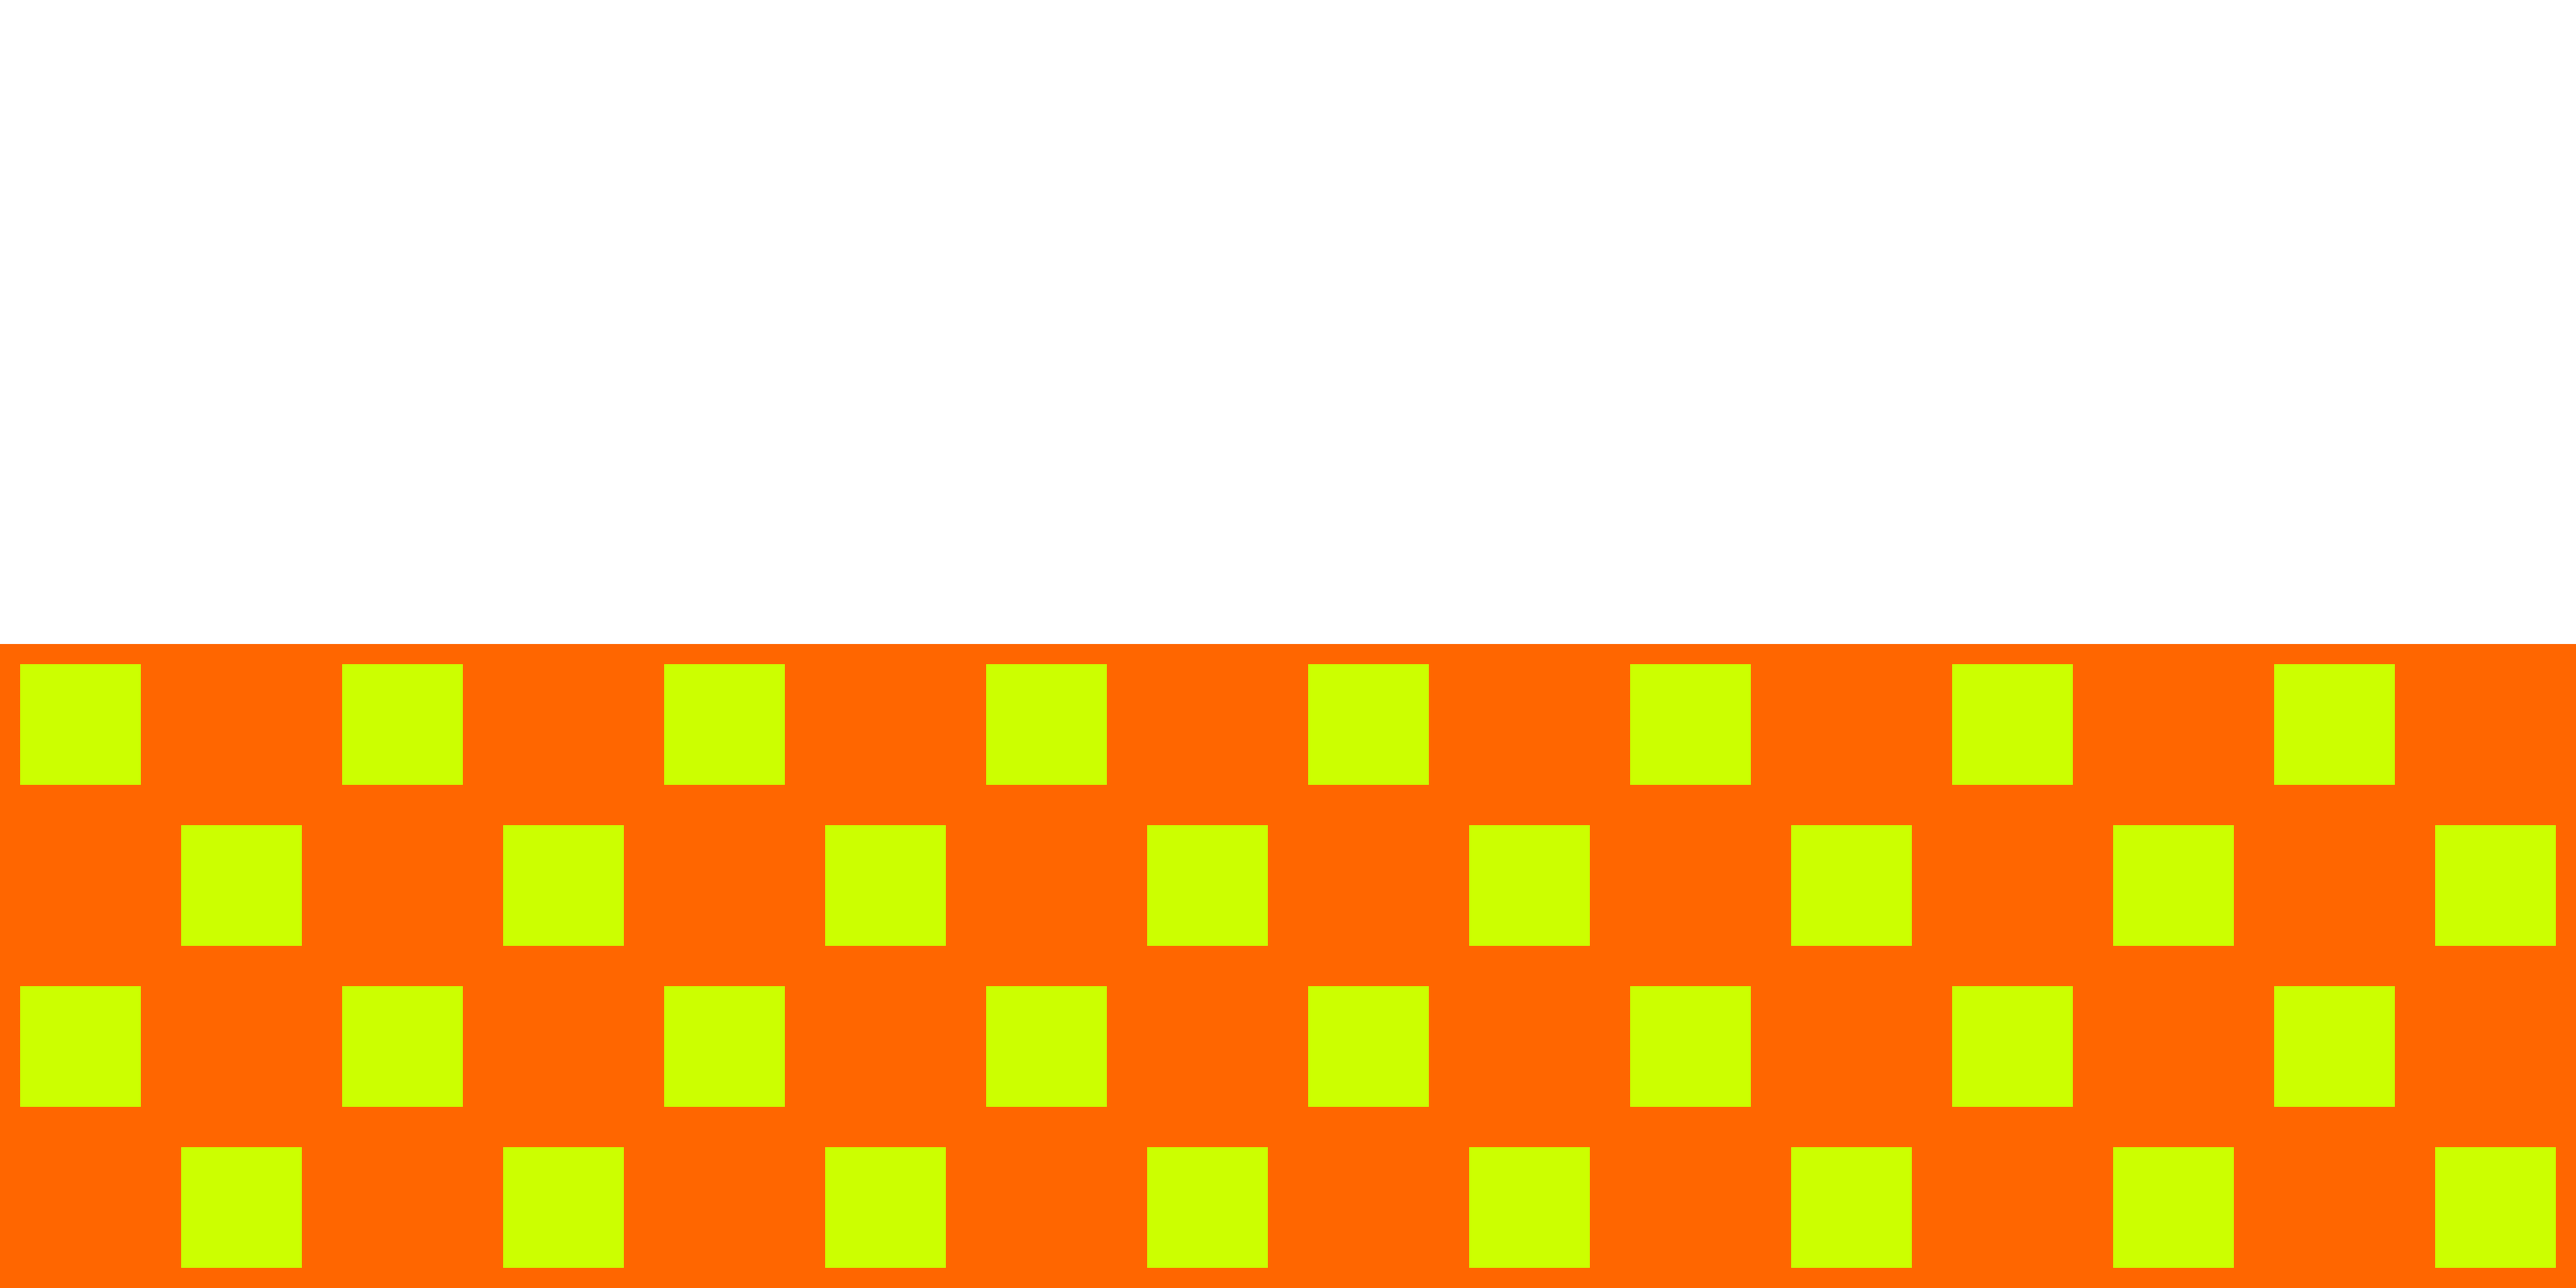
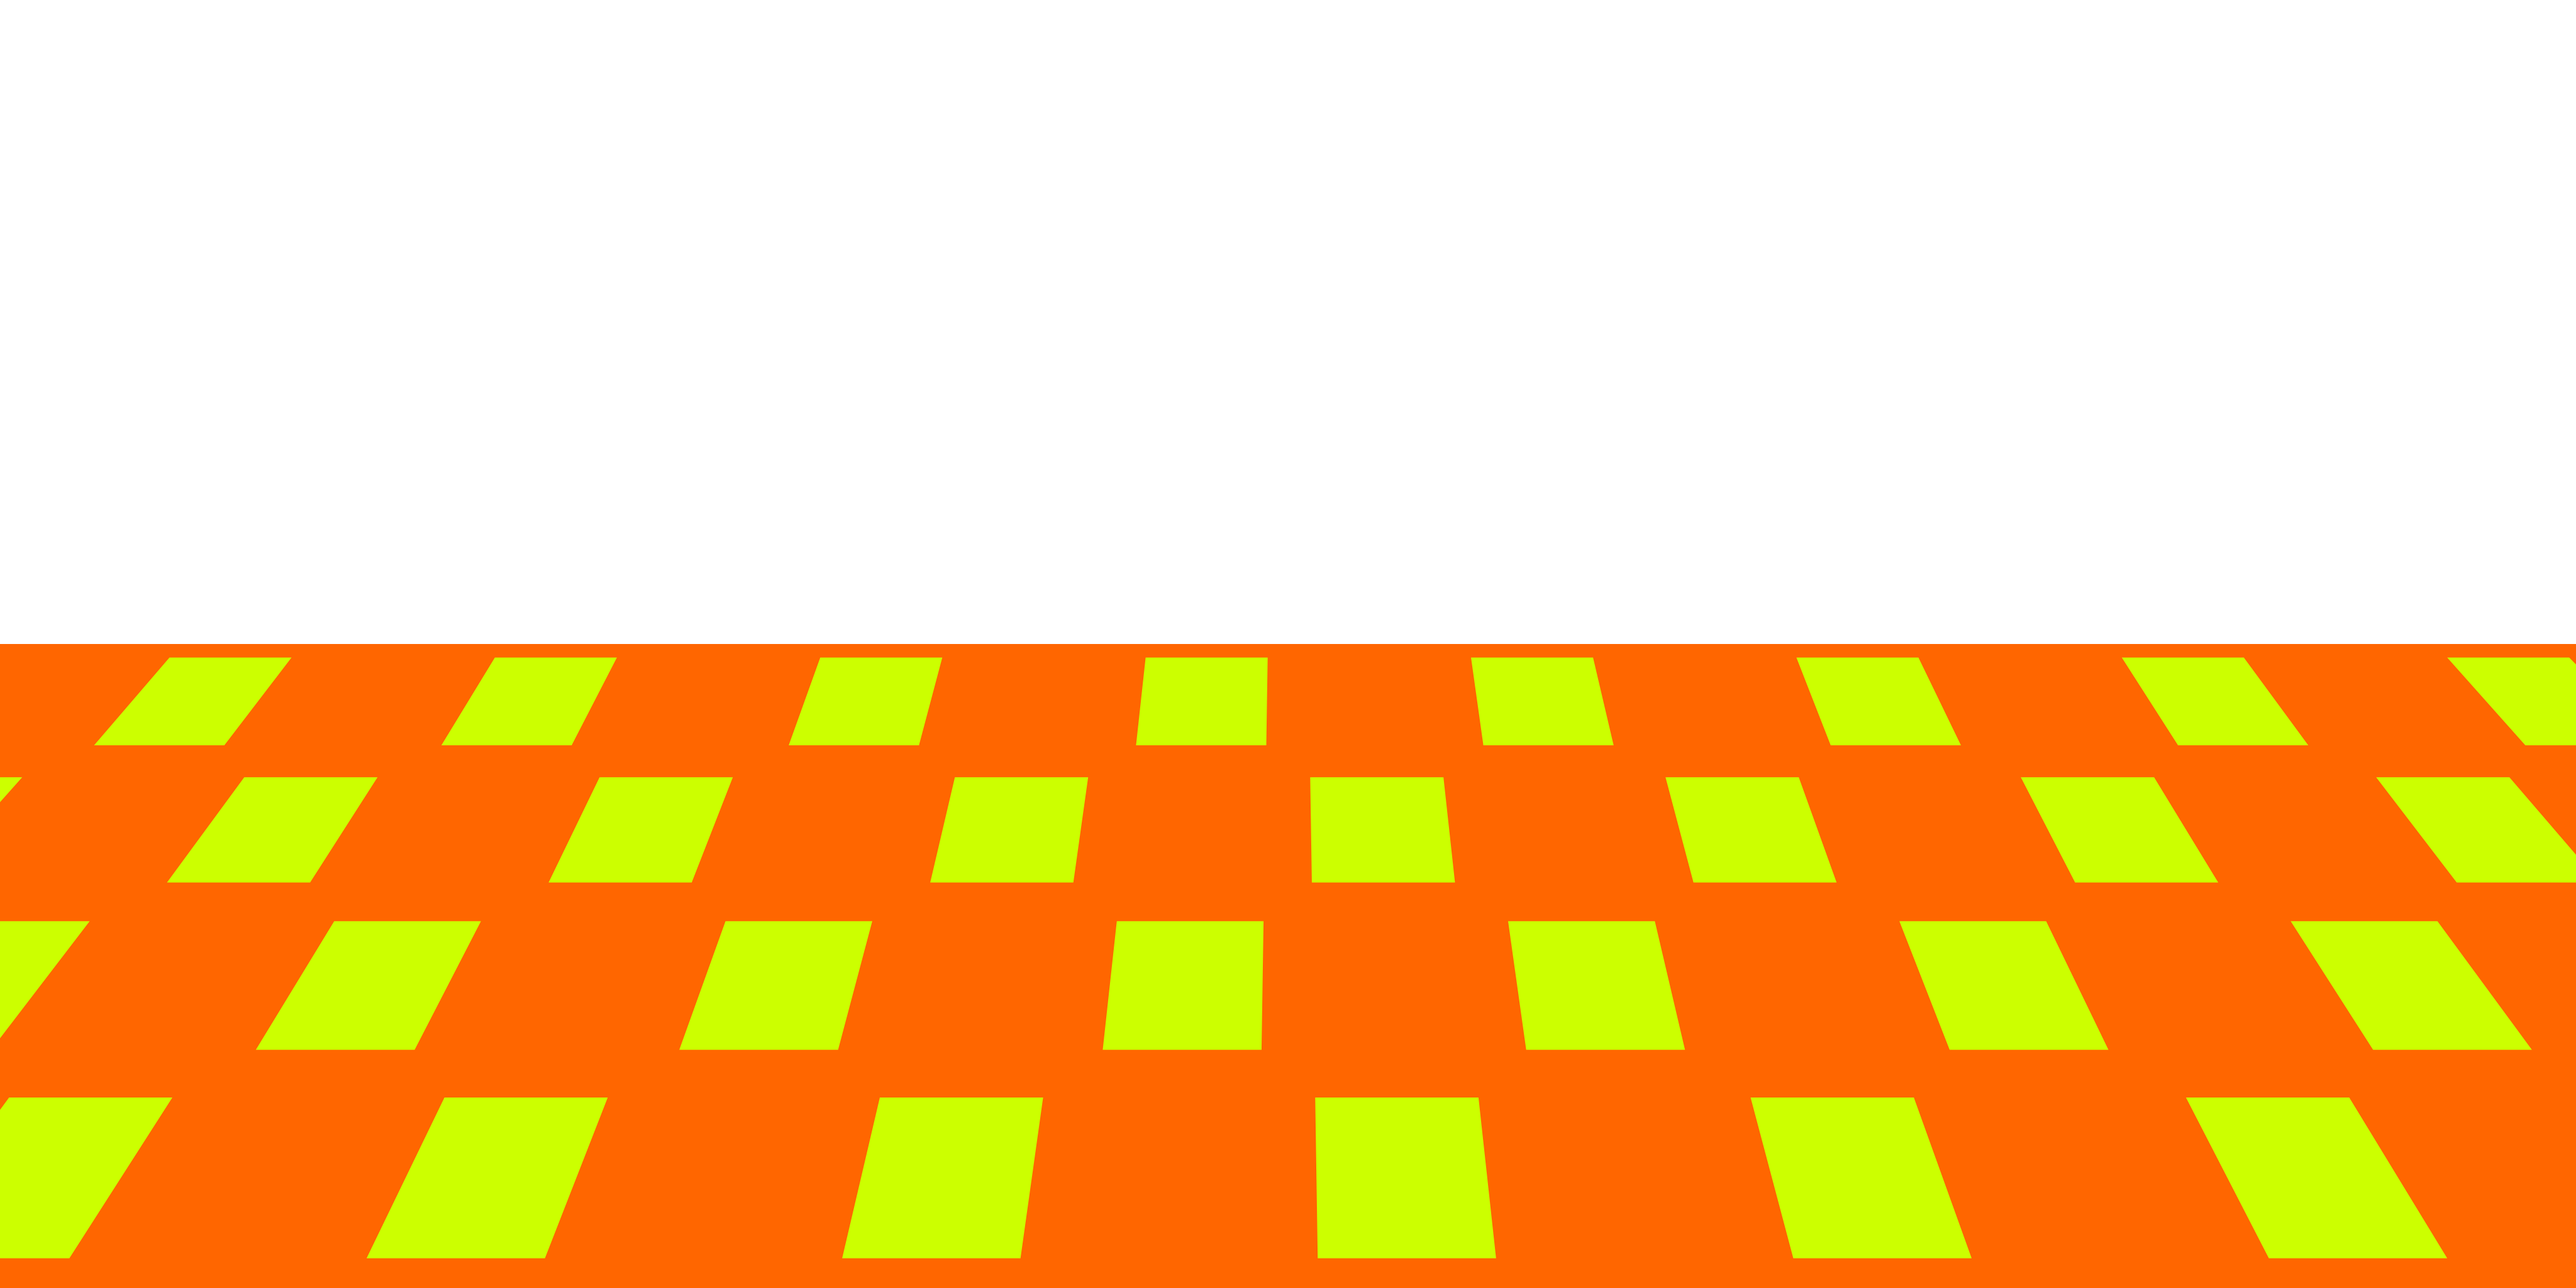
[skip ci] grochicken
here we go

Week is ready. further test needed. lacks our mod weeks pls add

Komsel change mural a bit! avoid 69! This is sacred room

Render Test

Changed region(s): [[0.0, 0.5, 1.0, 1.0]]

diff --git a/CREDIT.md b/CREDIT.md
@@ -411,12 +411,14 @@ Hey, am I allowed to relicense? I was meant to just license part of my mods that
 - the KPOP TV show has lyric!
 - https://haxeflixel.com/blog/16-HaxeFlixel-5-4-0/ COMBINE THE ATLAS!!!!!!!
 - https://github.com/HaxeFoundation/hscript pls latest instead
-
-
+- https://roy-torley.github.io/Inkscape_Tutorial/Tutorial07/Tutorial07.html
+- https://graphicdesign.stackexchange.com/questions/36025/how-do-i-shear-a-selection-in-inkscape
 
 # in event of git merge conflict
+
 use VScode and Github desktop!
 ## New
+
 - cease all works
 - commit and push new commit to your GitHub now.
 - go to conflict solving branch. pull the last commit from main to here.
@@ -434,6 +436,7 @@ use VScode and Github desktop!
 - push while you're at `main` now!
 
 ## legacyed
+
 - make sure to backup your last mod commit into a new branch first.
 - pull your latest commit from main to the conflict solving branch
 - try to checkout the new topic branch that conflict with the default branch where you supposed to merge all topic into default. 
@@ -444,6 +447,7 @@ use VScode and Github desktop!
 - after all conflict resolved you can commit merge. yay
 
 ## involved helps
+
 - https://stackoverflow.com/questions/6006737/git-merge-errors/6006775
 - https://stackoverflow.com/questions/57044187/git-error-you-need-to-resolve-your-current-index-first#57044188
 - https://stackoverflow.com/questions/36086202/git-merge-is-not-possible-because-i-have-unmerged-files
@@ -451,6 +455,7 @@ use VScode and Github desktop!
 - https://stackoverflow.com/questions/36086202/git-merge-is-not-possible-because-i-have-unmerged-files
 
 # Musics involved
+
 - https://linktr.ee/TheFatRat TheFatRat songs
 - https://gamebanana.com/mods/43569 SeaNothing's MIDI remake of FNF songs
 - https://youtu.be/RWf50T52n58 AFI Junior - Guruku Tersayang
@@ -619,6 +624,7 @@ Free Download / Stream: http://ncs.io/CradlesYO
 - https://lib.haxe.org/p/Console.hx/ Haxiomic. the COnsole fancy prints!!!!!
 - https://lib.haxe.org/p/haxe-ws/
 - https://lib.haxe.org/p/hxlibc/
+- https://github.com/Dovyski/flixel-studio Dovyski. The comprehensive Flixel in-game editor. Use the debug `~` menu and click **interaction tool**
 
 # other mods that got removed / pre-removed (ERROR fail to yoink)(foreshadowing) because a death wish found in the license (such as No Derivative in Creative Commons). I'm sorry, make your luck now for the next time!
 
